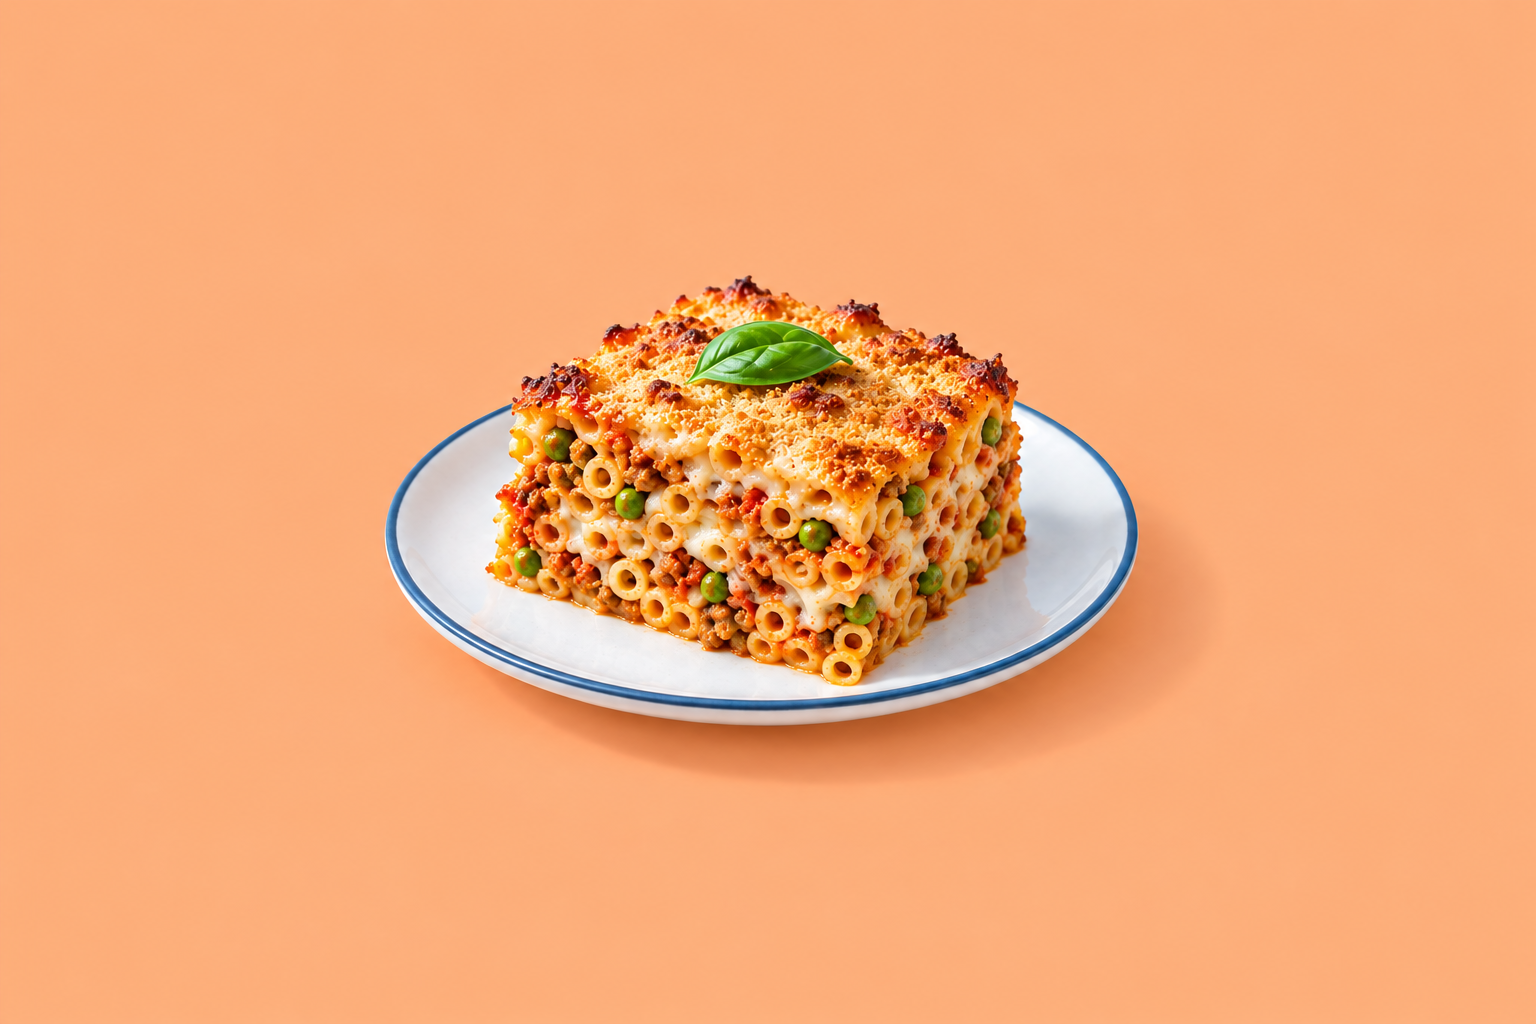
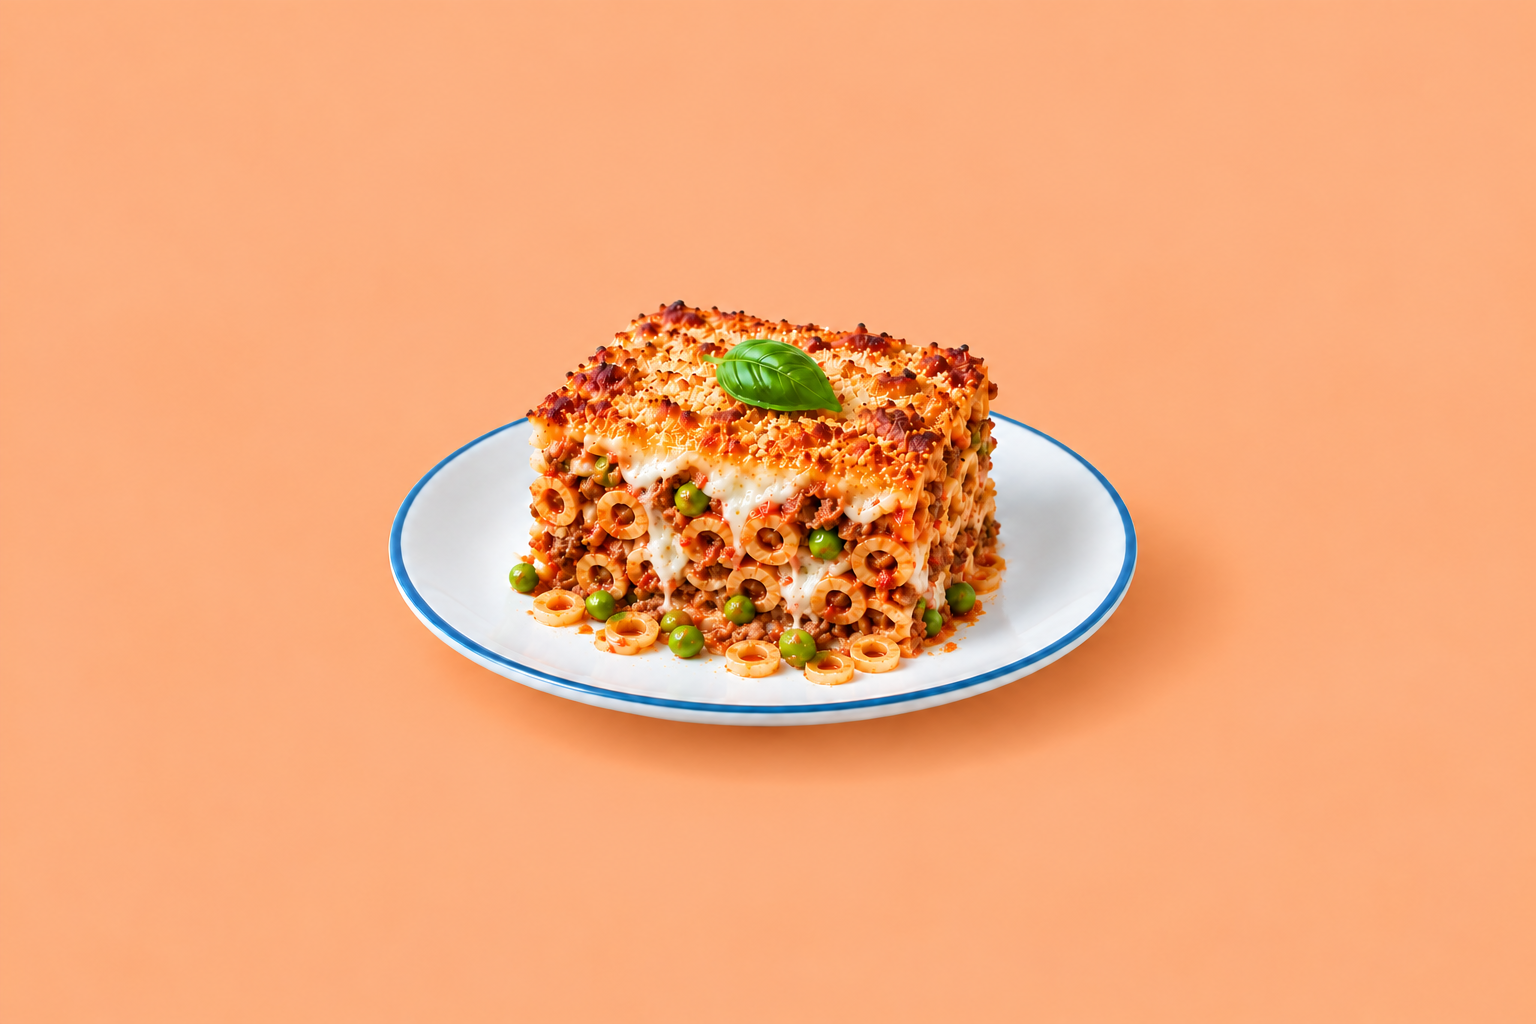
docs: add batch two pancake and anelletti redo candidates

Changed region(s): [[0.25, 0.25, 0.75, 0.7188]]

diff --git a/docs/image-tests/batch-02/redos/2026-11-01/README.md b/docs/image-tests/batch-02/redos/2026-11-01/README.md
@@ -1,0 +1,12 @@
+# Mise batch 2 redos — 2026-11-01
+
+Two replacement candidates at the original filenames. Source: `docs/image-prompts/batch-02-redo.md` on `images/approaches`, commit `a4aa10570381e102596f698254ed7110e1c3f7a0`.
+
+The original margarita cookbook reference was attached on every generation/edit call. Both PNGs are 1536 × 1024. Full-frame and central-half crop checks were performed. Both have no steam, no backdrop props or cutlery, centered plates about half the frame width, and visually even backdrops. Backdrop colours are approximate, not pixel-exact hex values.
+
+- **banana-egg-oat-pancakes.png:** Three thin, overlapping, fanned pancakes with oat flecks, banana slices and syrup. Passed visual review after two attempts.
+- **anelletti-al-forno.png:** Ring shapes and holes are now clear; the portion, peas, ragù, cheese and basil are present. Seven attempts improved shape and framing, but the ring bands still look thicker and more regular than the requested tiny delicate flat hoops. **Retain this as a flagged review candidate, not an unqualified pass.**
+
+`review/full-and-middle-half.png` shows both full frames above their middle-half crops. `qa.json` records dimensions, hashes and remaining caveats. `prompts/` contains the source prompt and all actual generation/edit prompts. The banana prompt ending `-01.txt` is the source-only prompt; actual attempts are named `-attempt-01` and `-attempt-02`.
+
+Generated with built-in image generation. Nine calls total. No manual alteration to final image pixels. No merge, deployment, pull request or recipe mapping.

diff --git a/docs/image-tests/batch-02/README.md b/docs/image-tests/batch-02/README.md
@@ -2,7 +2,11 @@
 
 49 generated cookbook-style recipe images, matching the supplied batch-02 filenames. All are PNG, 1536 × 1024 (3:2). This folder is a review deliverable, not a site implementation.
 
-## Review
+## Current two-image redo · 1 November 2026
+
+On this review branch, `images/anelletti-al-forno.png` and `images/banana-egg-oat-pancakes.png` are replacement candidates. [Current redo notes, exact prompts and proof](redos/2026-11-01/README.md) and [replacement hashes](redos/2026-11-01/qa.json) supersede the original records for these two files. The original full-batch contact sheets, manifest and QA below are retained as historical evidence and show the prior versions. Other 47 image files are unchanged. Pancakes passed review; Anelletti remains flagged for thick, regular ring bands. No production use is implied.
+
+## Original batch review
 
 **48 images passed review; 1 remains flagged:** `anelletti-al-forno.png` shows short thick tubes rather than true tiny thin pasta rings despite repeated fresh generations and targeted corrections. It is retained as a clearly flagged candidate, not claimed fully compliant. This image needs user review before use. The chicken-tender image passed with a minor styling caveat: interior fibers remain slightly overdefined.
 
